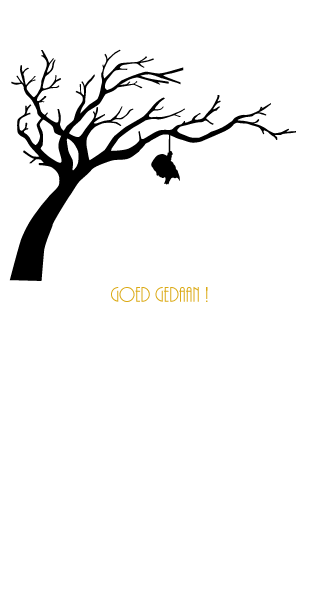
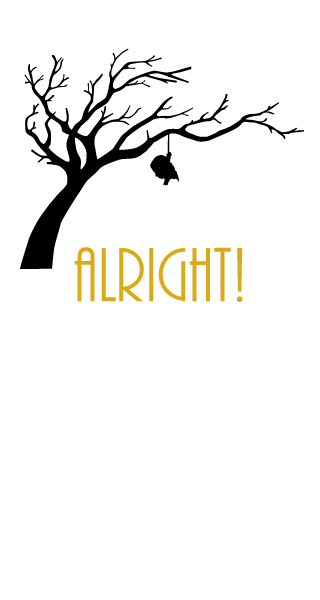
success images ook aangepast

diff --git a/css/style.css b/css/style.css
@@ -191,13 +191,13 @@
 .state6 {background-image: url("../images/state06.png");}
 .state7 {background-image: url("../images/state07.png");}
 
-.success_state0 {background-image: url("../images/state00_success_alt.png");}
-.success_state1 {background-image: url("../images/state01_success_alt.png");}
-.success_state2 {background-image: url("../images/state02_success_alt.png");}
-.success_state3 {background-image: url("../images/state03_success_alt.png");}
-.success_state4 {background-image: url("../images/state04_success_alt.png");}
-.success_state5 {background-image: url("../images/state05_success_alt.png");}
-.success_state6 {background-image: url("../images/state06_success_alt.png");}
+.success_state0 {background-image: url("../images/state00_success.png");}
+.success_state1 {background-image: url("../images/state01_success.png");}
+.success_state2 {background-image: url("../images/state02_success.png");}
+.success_state3 {background-image: url("../images/state03_success.png");}
+.success_state4 {background-image: url("../images/state04_success.png");}
+.success_state5 {background-image: url("../images/state05_success.png");}
+.success_state6 {background-image: url("../images/state06_success.png");}
 
 #searchWord {
     position: absolute;
